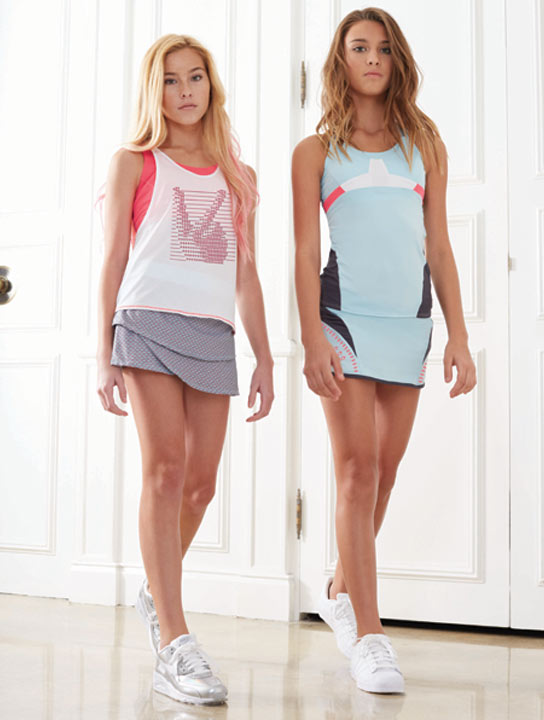
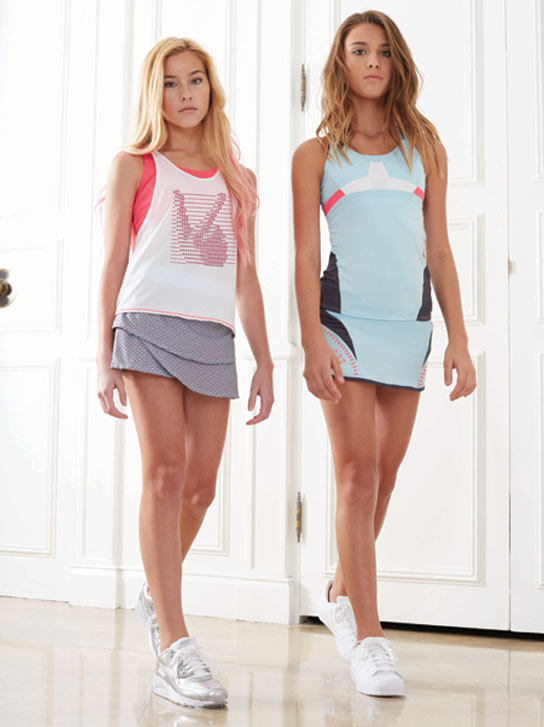
updates image

diff --git a/css/style.css b/css/style.css
@@ -49,7 +49,7 @@ img:hover {
 }
 .aqua {
   max-width: 544px;
-  max-height: 720px;
+  max-height: 727px;
   background-color: #b8cdd4;
   margin-bottom: 7px;
 }
